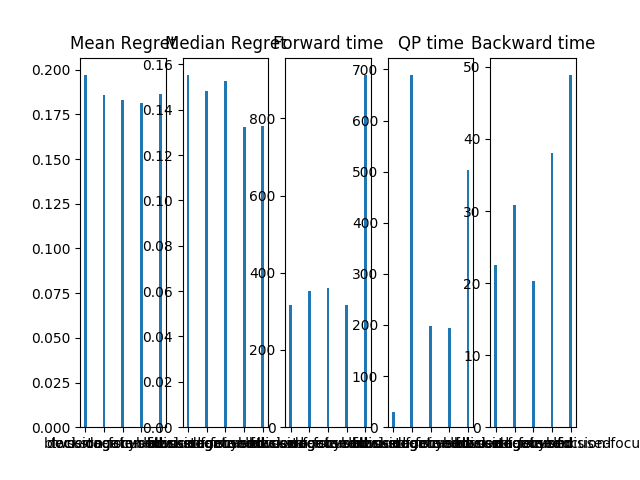
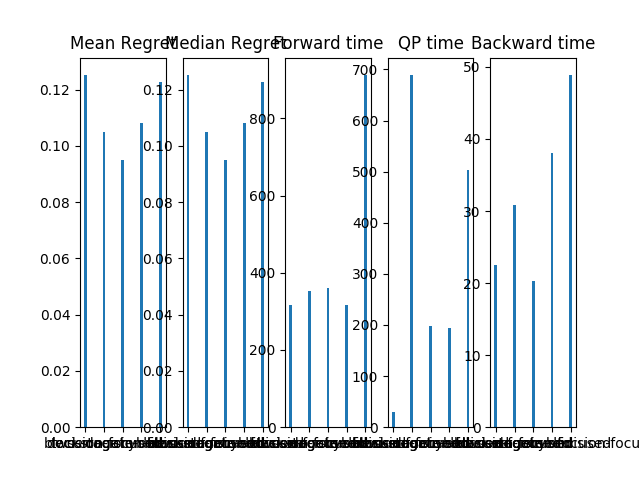
replacing all the matrix inverse by torch.solve

diff --git a/surrogate_derivative.py b/surrogate_derivative.py
@@ -73,9 +73,12 @@ def surrogate_objective_function_matrix_form(small_coverage_probs, T, G, unbiase
     Q = full_prob[transient_vector][:,transient_vector]
     R = full_prob[transient_vector][:,targets]
 
-    N = (torch.eye(Q.shape[0]) * (1 + REG) - Q).inverse()
-    B = N @ R
-    obj = torch.Tensor(initial_distribution) @ B @ torch.Tensor(U)
+    QQ = torch.eye(Q.shape[0]) * (1 + REG) - Q
+    # N = (torch.eye(Q.shape[0]) * (1 + REG) - Q).inverse()
+    # B = N @ R
+    NRU, QQ_LU = torch.solve((R @ torch.Tensor(U))[None,:,None], QQ[None,:,:])
+    obj = torch.Tensor(initial_distribution) @ NRU[0] # B @ torch.Tensor(U)
+    # obj = torch.Tensor(initial_distribution) @B @ torch.Tensor(U)
 
     if lib == np:
         obj = obj.detach().numpy()
@@ -109,8 +112,9 @@ def surrogate_dobj_dx_matrix_form(small_coverage_probs, T, G, unbiased_probs, U,
     Q = full_prob[transient_vector][:,transient_vector]
     R = full_prob[transient_vector][:,targets]
 
-    N = (torch.eye(Q.shape[0]) * (1 + REG) - Q).inverse()
-    B = N @ R
+    QQ = torch.eye(Q.shape[0]) * (1 + REG) - Q
+    # N = (torch.eye(Q.shape[0]) * (1 + REG) - Q).inverse()
+    # B = N @ R
 
     dstate_dx = torch.zeros((n,n,m))
 
@@ -135,8 +139,13 @@ def surrogate_dobj_dx_matrix_form(small_coverage_probs, T, G, unbiased_probs, U,
     dQ_dx = dfull_dx[transient_vector][:,transient_vector,:]
     dR_dx = dfull_dx[transient_vector][:,targets,:]
 
-    distN = initial_distribution @ N
-    distNdQ_dxNRU = distN @ torch.einsum("abc,b->ac", dQ_dx, (N @ (R @ U)))
+    # distN = initial_distribution @ N 
+    distN, _ = torch.solve(initial_distribution[None,:,None], QQ.t()[None,:,:])
+    distN = distN[0,:,0]
+    # NRU = N @ R @ U # torch.solve((R @ torch.Tensor(U))[None,:,None], QQ[None,:,:])
+    NRU, _ = torch.solve((R @ torch.Tensor(U))[None,:,None], QQ[None,:,:])
+    NRU = NRU[0,:,0]
+    distNdQ_dxNRU = distN @ torch.einsum("abc,b->ac", dQ_dx, NRU)
     distNdR_dxU = distN @ (torch.einsum("abc,b->ac", dR_dx, U))
     dobj_dx = distNdQ_dxNRU + distNdR_dxU
     dobj_dy = dobj_dx @ T

diff --git a/exp1.py b/exp1.py
@@ -12,7 +12,7 @@ if __name__=='__main__':
     # labels = ['two-stage', 'hybrid']
     # labels = ['two-stage', 'decision-focused', 'block-decision-focused', 'hybrid']
     labels = ['two-stage', 'block-decision-focused', 'hybrid', 'surrogate-decision-focused']
-    # labels = ['two-stage', 'decision-focused', 'block-decision-focused', 'hybrid', 'surrogate-decision-focused']
+    # labels = ['two-stage', 'block-decision-focused', 'hybrid', 'surrogate-decision-focused', 'decision-focused']
     print(labels)
     # ==================== Parser setting ==========================
     parser = argparse.ArgumentParser(description='GCN Interdiction')

diff --git a/surrogate.py b/surrogate.py
@@ -28,7 +28,7 @@ def train_model(train_data, validate_data, test_data, lr=0.1, learning_model='ra
     net2.train()
 
     sample_graph = train_data[0][0]
-    T_size = sample_graph.number_of_edges() // 4
+    T_size = 10 # sample_graph.number_of_edges() // 4
     init_T = torch.rand(sample_graph.number_of_edges(), T_size)
     T = torch.tensor(normalize_matrix(init_T), requires_grad=True)
     full_T = torch.eye(sample_graph.number_of_edges(), requires_grad=False) # TODO
